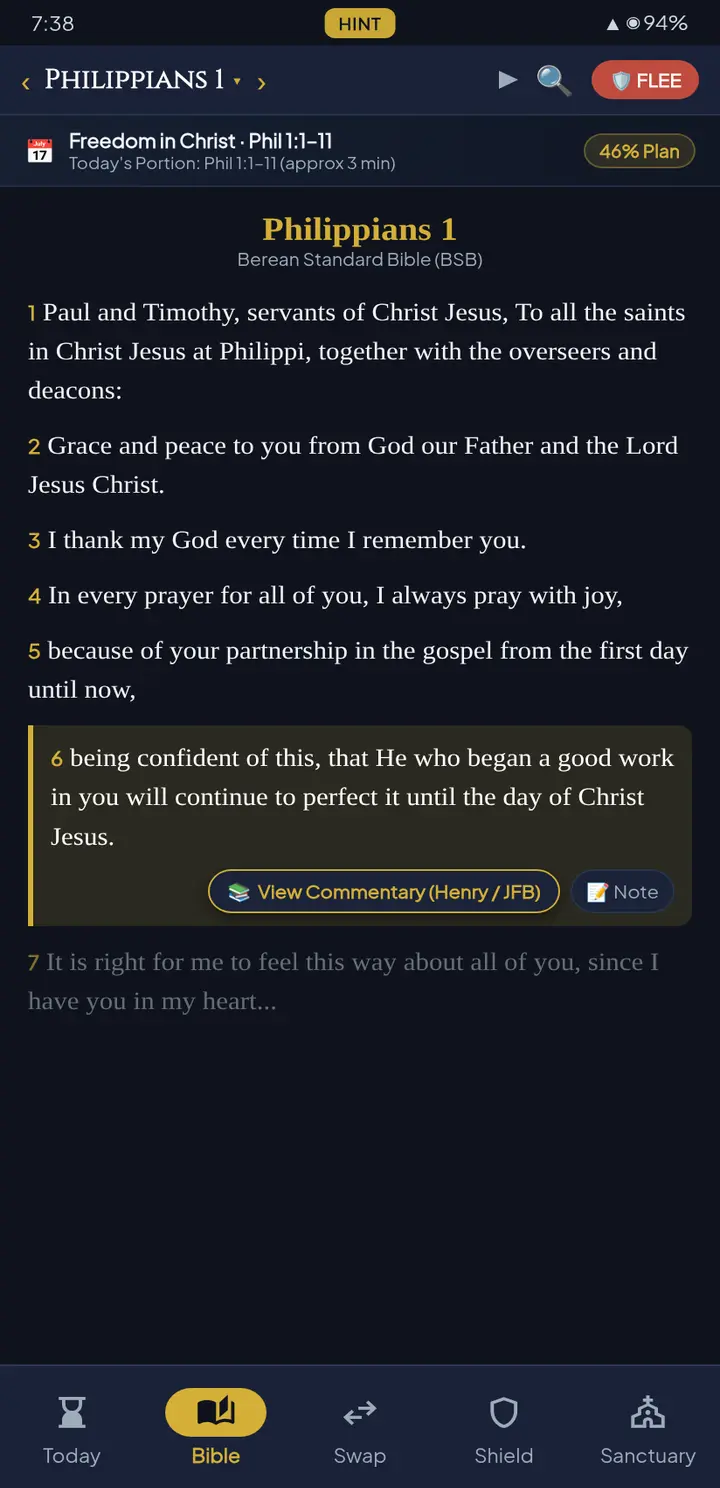
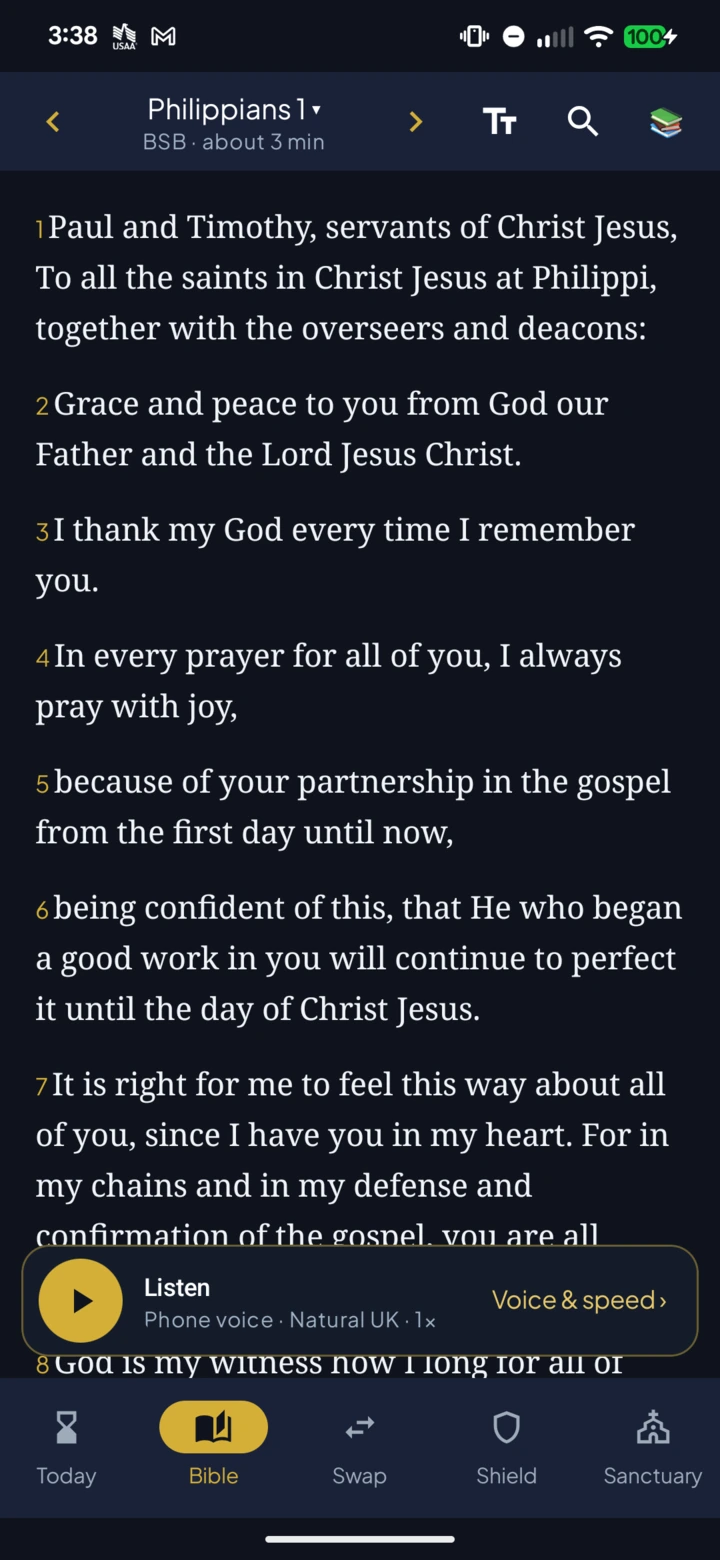
feat: update store features, trigger-free shield copy and refreshed device captures

diff --git a/index.html b/index.html
@@ -4,13 +4,13 @@
   <meta charset="UTF-8">
   <meta name="viewport" content="width=device-width, initial-scale=1.0">
   <title>Redeemed Time — Put Down the Scroll. Pick Up the Word.</title>
-  <meta name="description" content="A Christian app for Android: less scrolling, more time in God's Word and with others. A gentle pause before distracting apps, the full Berean Standard Bible built in, and honest accountability with a trusted friend.">
+  <meta name="description" content="A Christian app for Android: less scrolling, more time in God's Word and with others. Full Berean Standard Bible, bundled Matthew Henry &amp; JFB study commentaries, curated reading plans, a gentle pause before distracting apps, and honest accountability.">
   
   <!-- Open Graph / Social Meta -->
   <meta property="og:type" content="website">
   <meta property="og:url" content="https://redeemedtime.com/">
   <meta property="og:title" content="Redeemed Time — Put Down the Scroll. Pick Up the Word.">
-  <meta property="og:description" content="Less scrolling, more of God's Word, more time together. The whole Bible built in, a gentle pause before distracting apps, and accountability with a trusted friend.">
+  <meta property="og:description" content="Less scrolling, more of God's Word, more time together. Complete offline Bible, study commentaries, reading plans, gentle app pauses, and accountability with a trusted friend.">
   <meta property="og:image" content="https://redeemedtime.com/assets/images/og-image.jpg">
   <meta property="og:image:width" content="1200">
   <meta property="og:image:height" content="630">
@@ -937,7 +937,7 @@
         <div class="trust-badges">
           <div class="trust-badge-item">
             <svg width="18" height="18" viewBox="0 0 24 24" fill="currentColor"><path d="M12 2C6.48 2 2 6.48 2 12s4.48 10 10 10 10-4.48 10-10S17.52 2 12 2zm-2 15l-5-5 1.41-1.41L10 14.17l7.59-7.59L19 8l-9 9z"/></svg>
-            <span>Full Bible built in</span>
+            <span>Full Bible &amp; Study Tools</span>
           </div>
           <div class="trust-badge-item">
             <svg width="18" height="18" viewBox="0 0 24 24" fill="currentColor"><path d="M12 2C6.48 2 2 6.48 2 12s4.48 10 10 10 10-4.48 10-10S17.52 2 12 2zm-2 15l-5-5 1.41-1.41L10 14.17l7.59-7.59L19 8l-9 9z"/></svg>
@@ -1015,38 +1015,8 @@
         <p>Blocking alone rarely changes a habit. Redeemed Time gently interrupts the scroll, then points you somewhere better: Scripture, prayer, and the people around you.</p>
       </div>
 
-      <!-- Feature 1: The Word -->
-      <div class="feature-row" id="word">
-        <div class="feature-content">
-          <div class="feature-tag">Bible tab</div>
-          <h3>Read the Word: the Whole Bible, Right in the App</h3>
-          <p>
-            Every book of the Berean Standard Bible (BSB) is built in and works without internet. Pick up where you left off, change the text size, search, or have a chapter read aloud.
-          </p>
-          <ul class="feature-checklist">
-            <li>
-              <svg width="20" height="20" viewBox="0 0 24 24" fill="currentColor"><path d="M12 2C6.48 2 2 6.48 2 12s4.48 10 10 10 10-4.48 10-10S17.52 2 12 2zm-2 15l-5-5 1.41-1.41L10 14.17l7.59-7.59L19 8l-9 9z"/></svg>
-              <span><strong>All 66 books, offline:</strong> no internet or account needed.</span>
-            </li>
-            <li>
-              <svg width="20" height="20" viewBox="0 0 24 24" fill="currentColor"><path d="M12 2C6.48 2 2 6.48 2 12s4.48 10 10 10 10-4.48 10-10S17.52 2 12 2zm-2 15l-5-5 1.41-1.41L10 14.17l7.59-7.59L19 8l-9 9z"/></svg>
-              <span><strong>Listen:</strong> have Scripture read aloud with your phone&rsquo;s built-in voices, at the speed you like.</span>
-            </li>
-            <li>
-              <svg width="20" height="20" viewBox="0 0 24 24" fill="currentColor"><path d="M12 2C6.48 2 2 6.48 2 12s4.48 10 10 10 10-4.48 10-10S17.52 2 12 2zm-2 15l-5-5 1.41-1.41L10 14.17l7.59-7.59L19 8l-9 9z"/></svg>
-              <span><strong>Your Bible app, if you prefer:</strong> open YouVersion, Dwell, Logos or Blue Letter Bible instead.</span>
-            </li>
-          </ul>
-        </div>
-        <div class="feature-mockup">
-          <div class="feature-phone">
-            <img loading="lazy" width="720" height="1488" src="assets/images/app-bible.webp" alt="The built-in Bible reader showing Philippians 1 with read-aloud audio controls">
-          </div>
-        </div>
-      </div>
-
-      <!-- Feature 2: Perspective -->
-      <div class="feature-row reverse">
+      <!-- Feature 1: Today tab -->
+      <div class="feature-row" id="today">
         <div class="feature-content">
           <div class="feature-tag">Today tab</div>
           <h3>See What Your Scrolling Time Could Become</h3>
@@ -1070,13 +1040,13 @@
         </div>
         <div class="feature-mockup">
           <div class="feature-phone">
-            <img loading="lazy" width="720" height="1488" src="assets/images/app-perspective.webp" alt="The perspective card: 90 minutes is enough time to read 1 Corinthians and Romans">
+            <img loading="lazy" width="720" height="1488" src="assets/images/app-today.webp" alt="The Today screen: a greeting, daily encouragement and perspective on your screen time">
           </div>
         </div>
       </div>
 
-      <!-- Feature 3: Together -->
-      <div class="feature-row" id="together">
+      <!-- Feature 2: Today tab: check-ins -->
+      <div class="feature-row reverse" id="together">
         <div class="feature-content">
           <div class="feature-tag">Today tab: check-ins</div>
           <h3>Meet, Be Honest, and Pray for Each Other</h3>
@@ -1105,6 +1075,40 @@
         <div class="feature-mockup">
           <div class="feature-phone">
             <img loading="lazy" width="720" height="1488" src="assets/images/app-checkin.webp" alt="The accountability check-in card with James 5:16 and Schedule, Notes and Guide buttons">
+          </div>
+        </div>
+      </div>
+
+      <!-- Feature 3: The Word -->
+      <div class="feature-row" id="word">
+        <div class="feature-content">
+          <div class="feature-tag">Bible tab</div>
+          <h3>Read &amp; Study the Word: Offline Bible, Commentaries &amp; Reading Plans</h3>
+          <p>
+            Every book of the Berean Standard Bible (BSB) is built in and works 100% offline. Study deeply with bundled abridged Matthew Henry and Jamieson, Fausset &amp; Brown commentaries, follow curated or custom reading plans, and listen to Scripture read aloud.
+          </p>
+          <ul class="feature-checklist">
+            <li>
+              <svg width="20" height="20" viewBox="0 0 24 24" fill="currentColor"><path d="M12 2C6.48 2 2 6.48 2 12s4.48 10 10 10 10-4.48 10-10S17.52 2 12 2zm-2 15l-5-5 1.41-1.41L10 14.17l7.59-7.59L19 8l-9 9z"/></svg>
+              <span><strong>All 66 books, offline:</strong> complete Berean Standard Bible with zero internet or cloud required.</span>
+            </li>
+            <li>
+              <svg width="20" height="20" viewBox="0 0 24 24" fill="currentColor"><path d="M12 2C6.48 2 2 6.48 2 12s4.48 10 10 10 10-4.48 10-10S17.52 2 12 2zm-2 15l-5-5 1.41-1.41L10 14.17l7.59-7.59L19 8l-9 9z"/></svg>
+              <span><strong>Bundled Study Commentaries:</strong> Matthew Henry (devotional application) and Jamieson-Fausset-Brown (verse-by-verse exegesis) linked directly to each verse.</span>
+            </li>
+            <li>
+              <svg width="20" height="20" viewBox="0 0 24 24" fill="currentColor"><path d="M12 2C6.48 2 2 6.48 2 12s4.48 10 10 10 10-4.48 10-10S17.52 2 12 2zm-2 15l-5-5 1.41-1.41L10 14.17l7.59-7.59L19 8l-9 9z"/></svg>
+              <span><strong>Curated &amp; Custom Plans:</strong> follow 5 popular reading plans or build your own with quiet time reminders and daily pacing.</span>
+            </li>
+            <li>
+              <svg width="20" height="20" viewBox="0 0 24 24" fill="currentColor"><path d="M12 2C6.48 2 2 6.48 2 12s4.48 10 10 10 10-4.48 10-10S17.52 2 12 2zm-2 15l-5-5 1.41-1.41L10 14.17l7.59-7.59L19 8l-9 9z"/></svg>
+              <span><strong>Listen &amp; External Apps:</strong> text-to-speech audio at your speed, or 1-tap links to YouVersion, Dwell, Logos or Blue Letter Bible.</span>
+            </li>
+          </ul>
+        </div>
+        <div class="feature-mockup">
+          <div class="feature-phone">
+            <img loading="lazy" width="720" height="1560" src="assets/images/app-bible.webp" alt="The built-in Bible reader showing Philippians 1 with audio controls and study tools">
           </div>
         </div>
       </div>
@@ -1143,28 +1147,28 @@
       <div class="feature-row">
         <div class="feature-content">
           <div class="feature-tag">Shield tab</div>
-          <h3>Guard Your Eyes: Adult Site Blocking and a FLEE Button</h3>
+          <h3>Guard Your Eyes: On-Device Content Filtering and a FLEE Button</h3>
           <p>
             Redeemed Time checks the sites and searches you open in supported browsers, right on your phone, and covers explicit pages with a calm pause screen. When temptation hits, the FLEE button is one tap away on every screen.
           </p>
           <ul class="feature-checklist">
             <li>
               <svg width="20" height="20" viewBox="0 0 24 24" fill="currentColor"><path d="M12 2C6.48 2 2 6.48 2 12s4.48 10 10 10 10-4.48 10-10S17.52 2 12 2zm-2 15l-5-5 1.41-1.41L10 14.17l7.59-7.59L19 8l-9 9z"/></svg>
-              <span><strong>Adult Site Blocker:</strong> blocks well-known adult sites, adult-only web addresses (like .xxx), and any site you add, in Chrome, Samsung Internet, Firefox, Edge, Brave, Opera and DuckDuckGo.</span>
+              <span><strong>Adult Content Blocker:</strong> checks URLs and search queries on-device against over 100 known adult domains, explicit keywords, and adult domain extensions, plus any site you add, in Chrome, Samsung Internet, Firefox, Edge, Brave, Opera and DuckDuckGo.</span>
             </li>
             <li>
               <svg width="20" height="20" viewBox="0 0 24 24" fill="currentColor"><path d="M12 2C6.48 2 2 6.48 2 12s4.48 10 10 10 10-4.48 10-10S17.52 2 12 2zm-2 15l-5-5 1.41-1.41L10 14.17l7.59-7.59L19 8l-9 9z"/></svg>
-              <span><strong>FLEE button</strong> (for moments of temptation): Scripture, a calming breathing prayer, and one tap to text or call your partner.</span>
+              <span><strong>FLEE button</strong> (for moments of temptation): Scripture, a calming breathing prayer, and one tap to text or call your partner. Tapping FLEE never sends an alert email.</span>
             </li>
             <li>
               <svg width="20" height="20" viewBox="0 0 24 24" fill="currentColor"><path d="M12 2C6.48 2 2 6.48 2 12s4.48 10 10 10 10-4.48 10-10S17.52 2 12 2zm-2 15l-5-5 1.41-1.41L10 14.17l7.59-7.59L19 8l-9 9z"/></svg>
-              <span><strong>Victory streak:</strong> count your days walking in freedom.</span>
+              <span><strong>Victory streak:</strong> count your days walking in freedom with grace-first reflections.</span>
             </li>
           </ul>
         </div>
         <div class="feature-mockup">
           <div class="feature-phone">
-            <img loading="lazy" width="720" height="1488" src="assets/images/app-shield.webp" alt="The Shield page with the FLEE button and the Adult Site Blocker">
+            <img loading="lazy" width="720" height="1560" src="assets/images/app-shield.webp" alt="The Shield page with the FLEE button and the Adult Content Blocker">
           </div>
         </div>
       </div>
@@ -1267,7 +1271,7 @@
             <span class="faq-icon">▼</span>
           </div>
           <div class="faq-answer">
-            The Berean Standard Bible (BSB), all 66 books, built into the app and readable offline. Every verse the app quotes is checked word for word against it. If you prefer, the app can open YouVersion, Dwell, Logos or Blue Letter Bible instead.
+            The Berean Standard Bible (BSB), all 66 books, built into the app and readable 100% offline. Every verse the app quotes is checked word for word against it. It also includes bundled historic study commentaries (Matthew Henry Concise and Jamieson-Fausset-Brown) and curated reading plans. If you prefer external study tools, the app provides 1-tap links to open YouVersion, Dwell, Logos or Blue Letter Bible.
           </div>
         </div>
 
